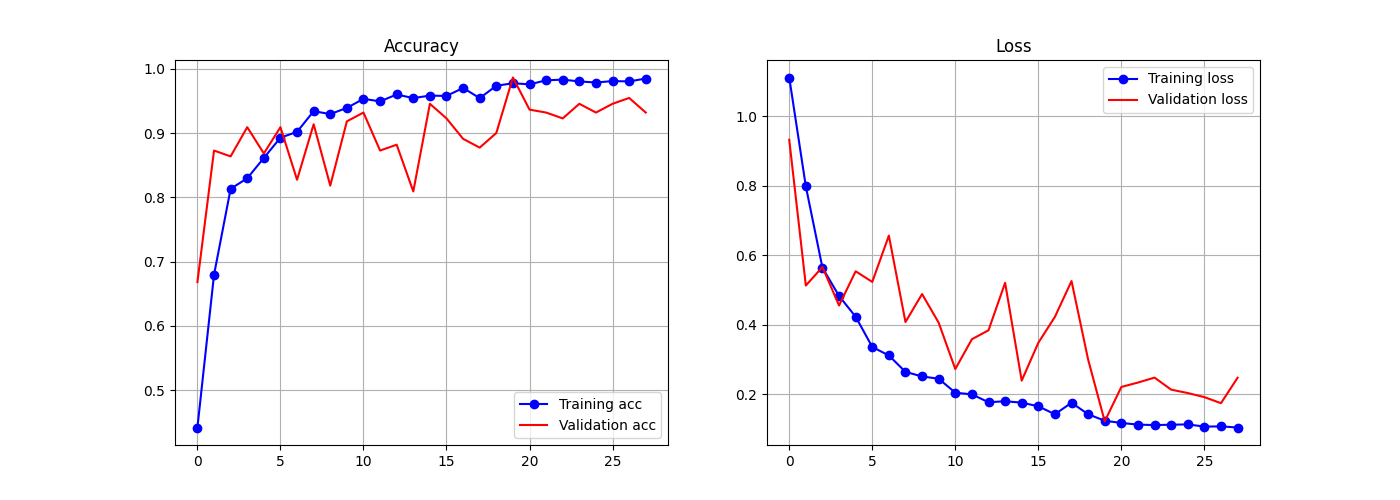
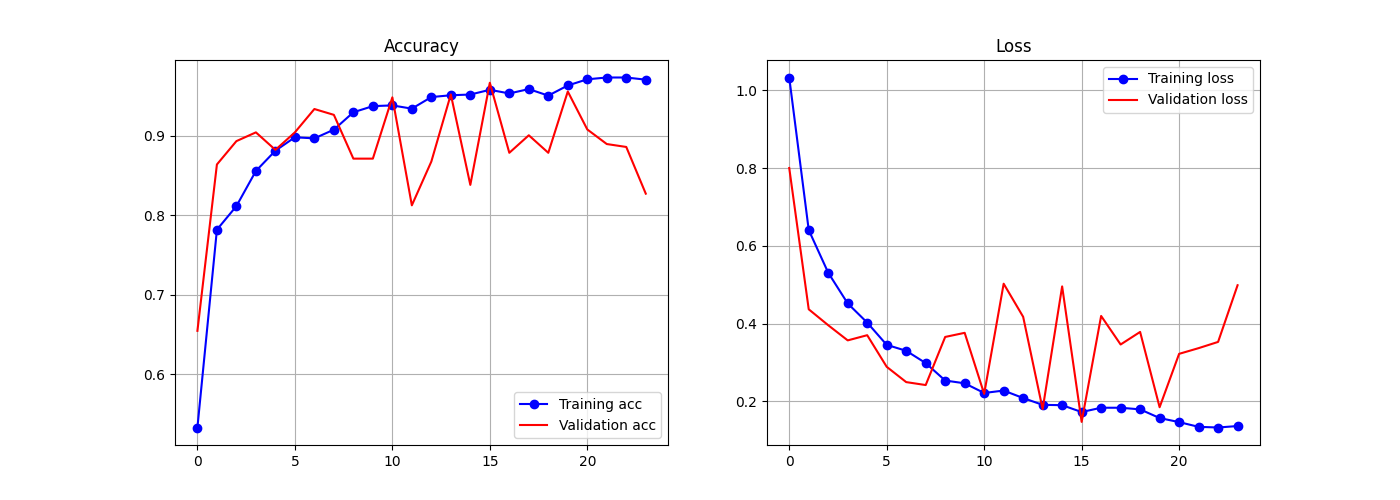
Efficient Net

diff --git a/train2.py b/train2.py
@@ -3,6 +3,7 @@ import shutil
 import splitfolders
 import tensorflow as tf
 from tensorflow.keras import layers, models, regularizers
+from tensorflow.keras.applications import EfficientNetB0
 import matplotlib.pyplot as plt
 
 # ==========================================
@@ -51,7 +52,7 @@ print("✅ Data split successfully!")
 # 3. LOAD DATASET
 # ==========================================
 IMG_SIZE = (224, 224)
-BATCH_SIZE = 32 
+BATCH_SIZE = 16 
 
 print("\nLoading datasets...")
 
@@ -72,8 +73,8 @@ class_names = train_ds.class_names
 print(f"Classes found: {class_names}")
 
 # Optimization: Cache data in memory for speed
-train_ds = train_ds.cache().prefetch(buffer_size=tf.data.AUTOTUNE)
-val_ds = val_ds.cache().prefetch(buffer_size=tf.data.AUTOTUNE)
+train_ds = train_ds.prefetch(buffer_size=tf.data.AUTOTUNE)
+val_ds = val_ds.prefetch(buffer_size=tf.data.AUTOTUNE)
 
 # ==========================================
 # 4. AGGRESSIVE AUGMENTATION (The Anti-Color Bias Fix)
@@ -94,47 +95,47 @@ data_augmentation = tf.keras.Sequential([
 # ==========================================
 # 5. BUILD CNN MODEL
 # ==========================================
-learning_rate = 1e-4  # Slightly faster LR since dataset is balanced
+learning_rate = 1e-4  # Keep low for transfer learning
 l2_strength = 1e-4    
 
-print("\nBuilding Model...")
+print("\nDownloading and Building EfficientNetB0...")
 
+# 1. Load the base model (Pre-trained on ImageNet)
+# include_top=False removes the 1000-class classification layer
+base_model = EfficientNetB0(
+    include_top=False,
+    weights='imagenet',
+    input_shape=(224, 224, 3)
+)
+
+# 2. Freeze the base model
+# This ensures we only train your new top layers first
+base_model.trainable = False
+
+# 3. Create the final model
 model = models.Sequential([
     layers.Input(shape=(224, 224, 3)),
     
-    # Apply Augmentation (Only runs during training)
+    # Augmentation (Keep your existing strong augmentation)
     data_augmentation,
     
-    # Standardize pixels
-    layers.Rescaling(1./255),
+    # NOTE: We REMOVED layers.Rescaling(1./255) 
+    # EfficientNet expects 0-255 range inputs!
     
-    # --- Convolutional Blocks ---
-    # Block 1
-    layers.Conv2D(32, (3, 3), activation='relu', kernel_regularizer=regularizers.l2(l2_strength)),
-    layers.MaxPooling2D((2, 2)),
+    # The Pre-trained Base
+    base_model,
     
-    # Block 2
-    layers.Conv2D(64, (3, 3), activation='relu', kernel_regularizer=regularizers.l2(l2_strength)),
-    layers.MaxPooling2D((2, 2)),
+    # Convert features to a single vector per image
+    layers.GlobalAveragePooling2D(),
     
-    # Block 3
-    layers.Conv2D(128, (3, 3), activation='relu', kernel_regularizer=regularizers.l2(l2_strength)),
-    layers.MaxPooling2D((2, 2)),
-
-    # Block 4 (Added for deeper feature extraction on shape)
-    layers.Conv2D(256, (3, 3), activation='relu', kernel_regularizer=regularizers.l2(l2_strength)),
-    layers.MaxPooling2D((2, 2)),
+    # Dropout to prevent overfitting
+    layers.Dropout(0.3),
     
-    layers.Flatten(),
-    
-    # --- Dense Layers ---
-    layers.Dense(256, activation='relu', kernel_regularizer=regularizers.l2(l2_strength)),
-    layers.Dropout(0.5), 
-    
-    layers.Dense(len(class_names)) # Output Layer (No Softmax needed here due to from_logits=True)
+    # Output Layer
+    layers.Dense(len(class_names)) # No softmax (logits=True in loss)
 ])
 
-# Use separate definition for loss/optimizer to avoid Mixed Precision casting issues
+# Use separate definition for loss/optimizer
 optimizer = tf.keras.optimizers.Adam(learning_rate=learning_rate)
 loss_fn = tf.keras.losses.SparseCategoricalCrossentropy(from_logits=True)
 
@@ -177,7 +178,7 @@ history = model.fit(
 # ==========================================
 # 7. SAVE RESULTS
 # ==========================================
-model.save('Jan_22_model.h5') 
+model.save('Jan_23_EfficientNet_model.h5') 
 print("\n✅ Model saved as 'Jan21_balance_model.h5'")
 
 # Plotting

diff --git a/webcam_test.py b/webcam_test.py
@@ -7,7 +7,7 @@ import tensorflow as tf
 # ==========================================
 # Load your trained model
 print("Loading model... (This might take a moment)")
-model = tf.keras.models.load_model('Jan21_balance_model.h5')
+model = tf.keras.models.load_model('Jan_23_EfficientNet_model5')
 print("✅ Model loaded!")
 
 # Define your class names EXACTLY as they appeared in training
